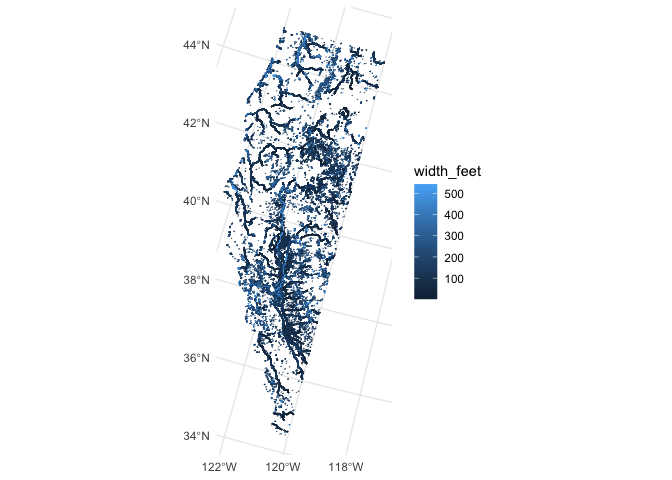
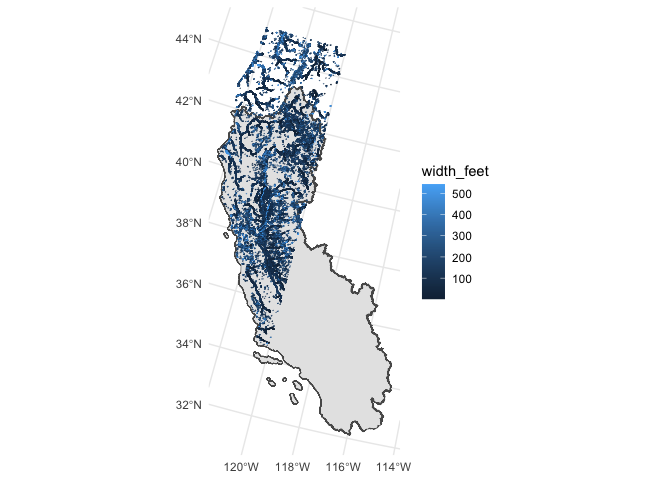
updating merit plot to include CV boundary

diff --git a/data-raw/width-datasets-exploration.md b/data-raw/width-datasets-exploration.md
@@ -188,6 +188,7 @@ all_merit_trunc <- all_merit |>
   filter(width_m <= 165.43)
 
 ggplot() + 
+  geom_sf(data = watersheds) +
   geom_sf(data = all_merit_trunc, aes(color = width_feet))
 ```
 
